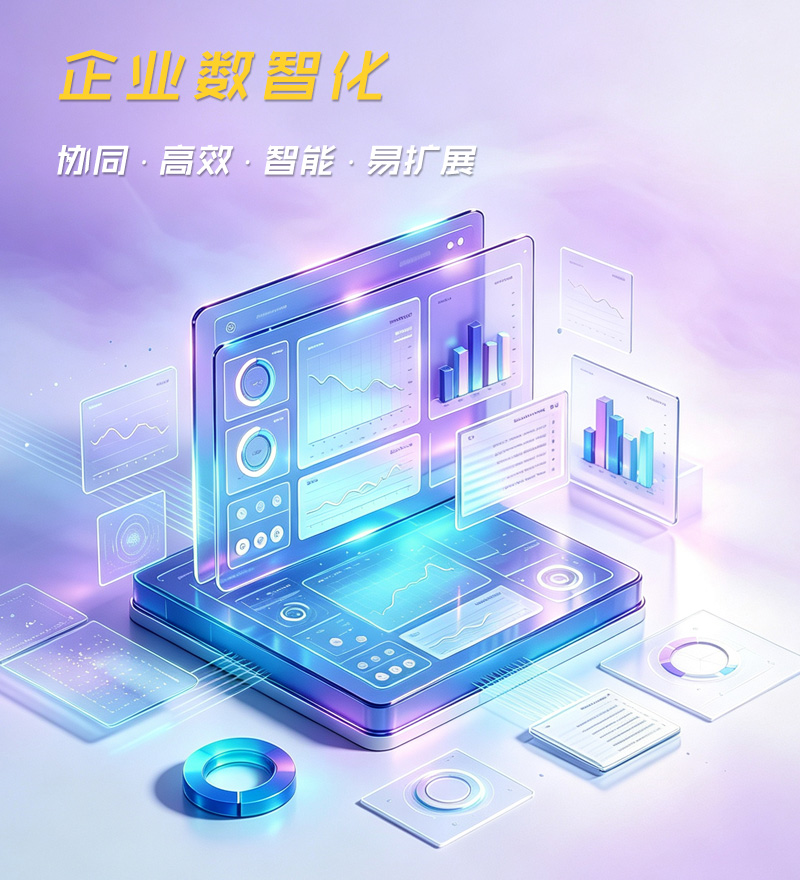
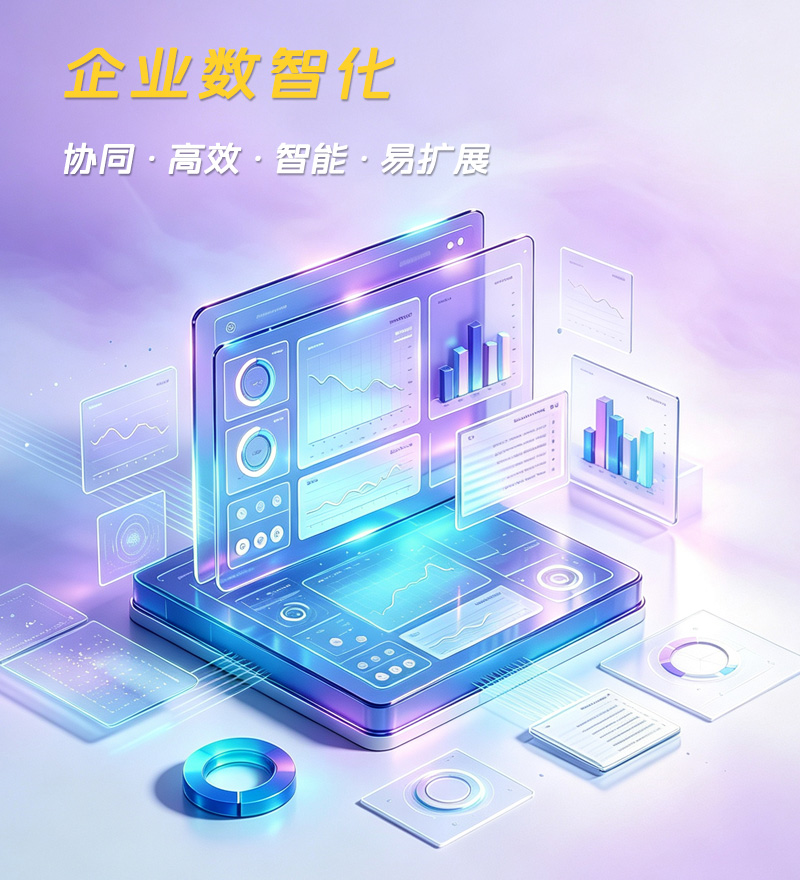
修改bug，优化细节

Changed region(s): [[0.0625, 0.1534, 0.625, 0.2148], [0.0625, 0.0307, 0.5, 0.1227]]

diff --git a/app/oa/controller/Workplan.php b/app/oa/controller/Workplan.php
@@ -43,7 +43,7 @@ class Workplan extends BaseController
         if (request()->isAjax()) {
 			$uid = $this->uid;
 			$did = $this->did;
-			$pid = $this->pid;
+			$pid = $this->poid;
 			$tab = isset($param['tab']) ? $param['tab'] : 0;
             $where = [];
             $whereOr = [];

diff --git a/app/disk/controller/Index.php b/app/disk/controller/Index.php
@@ -160,7 +160,7 @@ class Index extends BaseController
 			
 			$uid=$this->uid;
 			$did=$this->did;
-			$pid=$this->pid;
+			$pid=$this->poid;
 			
 			$map1=[
 				['share_types','=',1]
